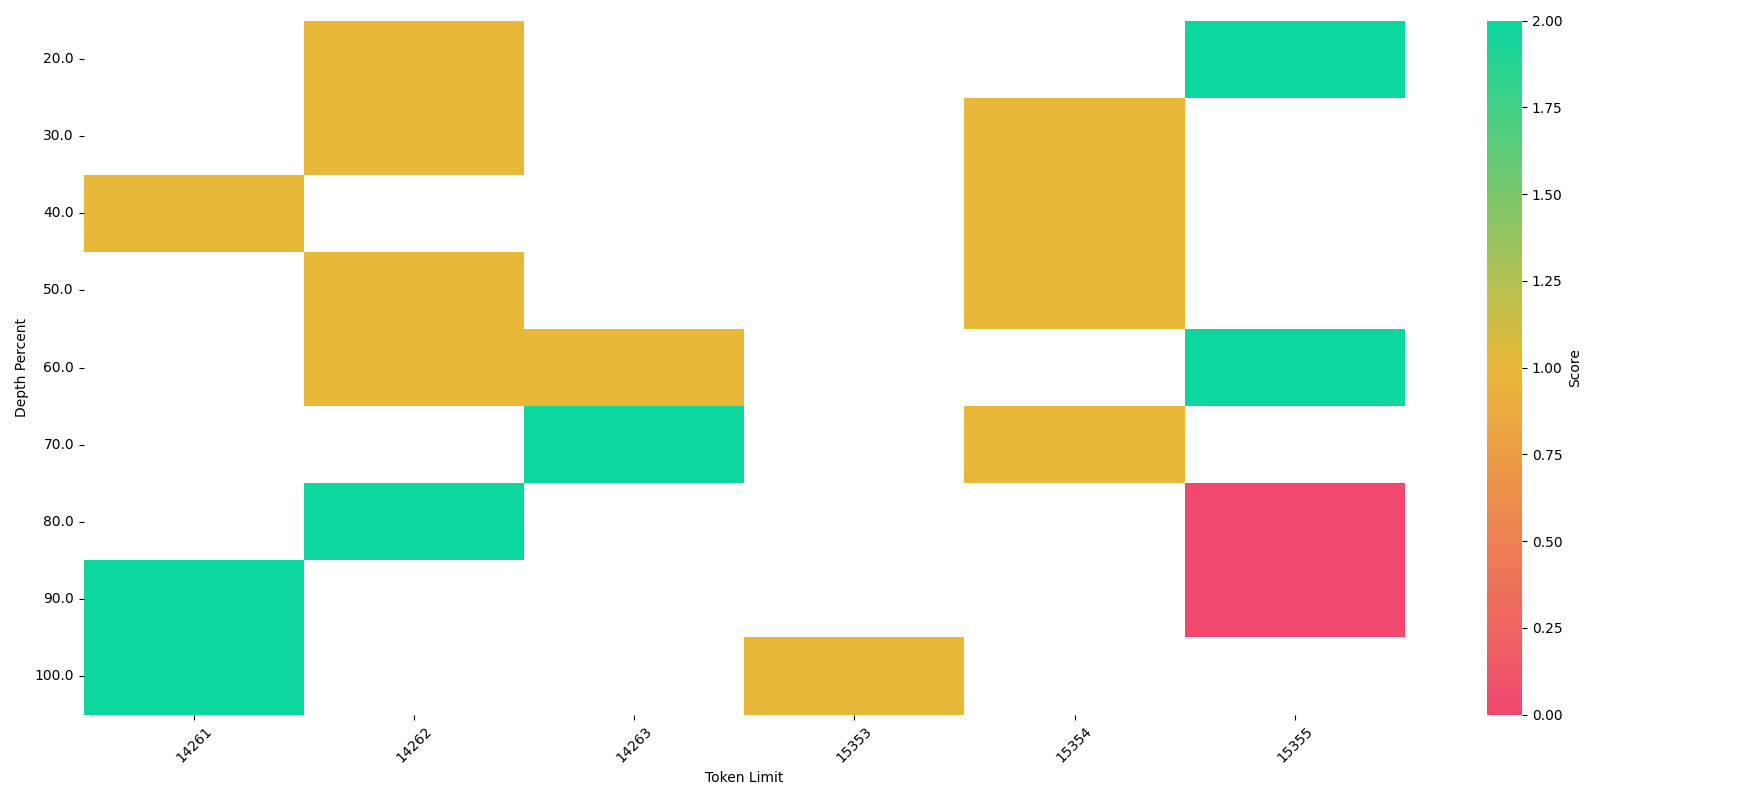
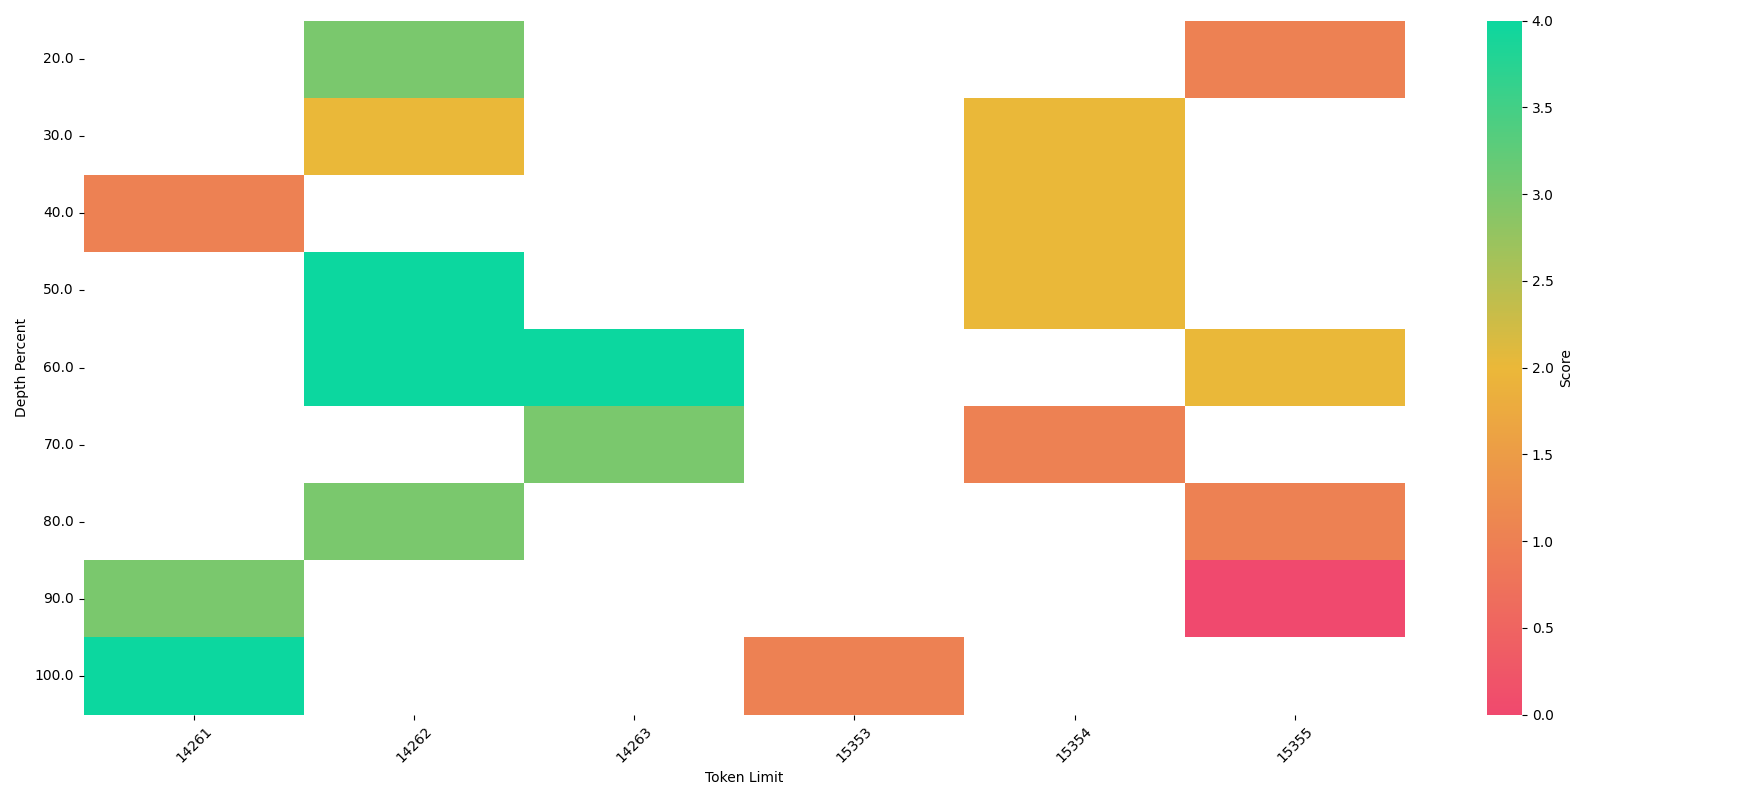
results

diff --git a/pass_key.py b/pass_key.py
@@ -28,8 +28,8 @@ def parse_config():
     parser.add_argument('--base_model', type=str, default="fla-hub/rwkv7-1.5B-world")
     parser.add_argument('--cache_dir', type=str, default="./cache")
 
-    parser.add_argument('--min_tokens', type=int, default=14384, help='minimum token length to start evaluation')
-    parser.add_argument('--max_tokens', type=int, default=16384, help='maximum token length for evaluation')
+    parser.add_argument('--min_tokens', type=int, default=4096, help='minimum token length to start evaluation')
+    parser.add_argument('--max_tokens', type=int, default=8500, help='maximum token length for evaluation')
     parser.add_argument('--interval', type=int, default=1024, help='interval for evaluation')
     parser.add_argument('--num_tests', type=int, default=5, help='number of repeat testing for each length')
     parser.add_argument('--min_depth', type=float, default=0.2, help='minimum depth ratio to start testing')
@@ -125,7 +125,7 @@ def main(args):
     print("base model", args.base_model)
 
     # Load model and tokenizer
-    model = AutoModelForCausalLM.from_pretrained(model_path, trust_remote_code=True, tmix_backend="cuda")
+    model = AutoModelForCausalLM.from_pretrained('fla-hub/rwkv7-1.5B-world', trust_remote_code=True)
     model = model.to('cuda')
     tokenizer = AutoTokenizer.from_pretrained('fla-hub/rwkv7-1.5B-world', trust_remote_code=True)
 
@@ -207,7 +207,7 @@ def main(args):
     plt.xticks(rotation=45)
     plt.yticks(rotation=0)
     plt.tight_layout()
-    plt.savefig(f"data/heatmap_{args.max_tokens}_rwkv7_1b5_64k.png")
+    plt.savefig(f"data/heatmap_{args.max_tokens}_rwkv7_1b5_base.png")
 
 if __name__ == "__main__":
     args = parse_config()
